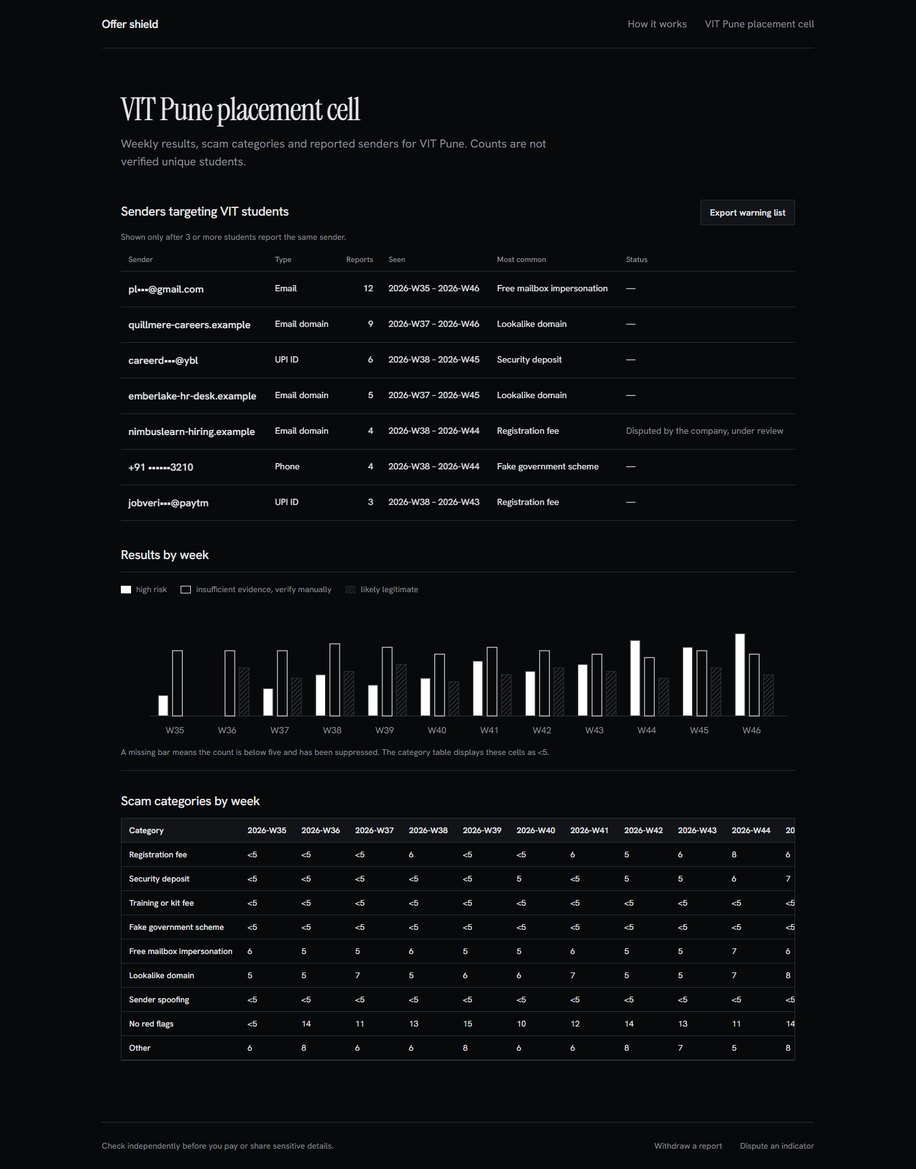
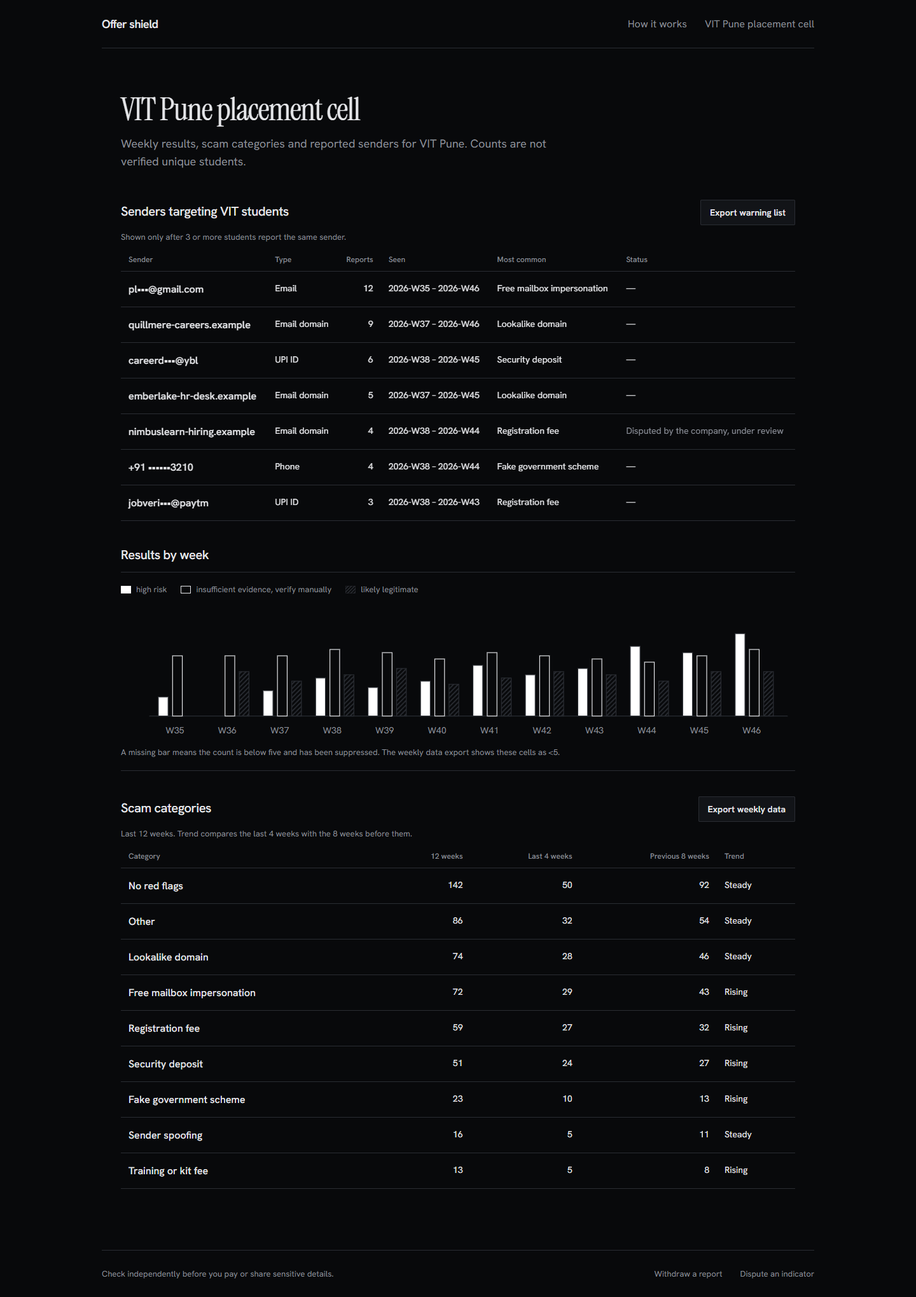
Category summary instead of the week x category grid; weekly CSV export
- dashboard category_summary: one row per category with 12-week total, last 4 weeks, previous
  8 weeks and Rising/Falling/Steady (weekly-rate rule, +/-25%), sorted by total; '<5' applied to
  each count; categories under 5 in total get no trend word and sort after the others
- GET /placement-cell/weekly.csv: full weekly data (week x band, week x category) with '<5';
  the API keeps by_week_category
- UI: 'Scam categories' table with 'Export weekly data'; chart help text points to the export
- tests (summary, suppression, trend rule, CSV, frontend); README, CLAIMS; screenshots recaptured

diff --git a/frontend/src/App.tsx b/frontend/src/App.tsx
@@ -1,5 +1,5 @@
 import { FormEvent, useEffect, useId, useMemo, useRef, useState } from 'react'
-import { analyze, loadDashboard, SENDERS_CSV_URL, submitDispute, submitReport, withdrawReport } from './api/client'
+import { analyze, loadDashboard, SENDERS_CSV_URL, submitDispute, submitReport, WEEKLY_CSV_URL, withdrawReport } from './api/client'
 import { CONSENT_TEXT, CONSENT_VERSION } from './consent'
 import type { AnalyzeResponse, CheckResult, InstitutionDashboard, ReportableIndicator, RiskBand, ScamCategory, TopSender } from './api/types'
 import styles from './App.module.css'
@@ -184,7 +184,7 @@ function TrendChart({ dashboard }: { dashboard: InstitutionDashboard }) {
   const numeric = dashboard.by_week_band.flatMap(row => typeof row.count === 'number' ? [row.count] : [])
   const max = Math.max(5, ...numeric)
   const bands: RiskBand[] = ['high risk', 'insufficient evidence, verify manually', 'likely legitimate']
-  return <div className={styles.chartPanel}><div className={styles.chartLegend}>{bands.map((band, i) => <span key={band}><i className={`${styles.legendMark} ${[styles.highMark, styles.manualMark, styles.legitMark][i]}`}>{i === 2 && <svg className={styles.legendHatch} viewBox="0 0 16 12" aria-hidden="true"><defs><pattern id="legendHatchPattern" width="5" height="5" patternUnits="userSpaceOnUse"><rect width="5" height="5" fill="var(--obsidian)"/><path d="M-1 1 L1 -1 M0 5 L5 0 M4 6 L6 4" stroke="var(--graphite)" strokeWidth="1.5"/></pattern></defs><rect width="16" height="12" fill="url(#legendHatchPattern)" stroke="var(--graphite)"/></svg>}</i>{band}</span>)}</div><div className={styles.chartScroll}><svg className={styles.chart} viewBox="0 0 900 190" role="img" aria-labelledby="chart-title chart-desc"><title id="chart-title">Results by week</title><desc id="chart-desc">Grouped weekly counts for high risk, insufficient evidence, and likely legitimate results. Missing bars indicate suppressed counts below five; the category table shows those cells as &lt;5.</desc><defs><pattern id="hatch" width="6" height="6" patternUnits="userSpaceOnUse"><path d="M-1 1 L1 -1 M0 6 L6 0 M5 7 L7 5" stroke="var(--graphite)" strokeWidth="1.5"/></pattern></defs><line x1="38" y1="150" x2="890" y2="150" stroke="var(--graphite)"/>{groups.map((rows, wi) => { const x = 50 + wi * 70; return <g key={dashboard.weeks[wi]}><text x={x + 22} y="173" textAnchor="middle" className={styles.axisText}>{dashboard.weeks[wi].slice(5)}</text>{rows.map(row => { const bi = bands.indexOf(row.band); const n = typeof row.count === 'number' ? row.count : 0; const h = n / max * 110; const bx = x + bi * 19; const fill = bi === 0 ? 'var(--white)' : bi === 1 ? 'var(--obsidian)' : 'url(#hatch)'; return <rect key={row.band} x={bx} y={150 - h} width="13" height={Math.max(n ? 1 : 0, h)} fill={fill} stroke={bi === 1 ? 'var(--platinum)' : 'var(--graphite)'}><title>{row.band}, {row.count === '<5' ? '<5 results, value suppressed' : `${row.count} results`}, {dashboard.weeks[wi]}</title></rect> })}</g> })}</svg></div><p className={styles.help}>A missing bar means the count is below five and has been suppressed. The category table displays these cells as &lt;5.</p></div>
+  return <div className={styles.chartPanel}><div className={styles.chartLegend}>{bands.map((band, i) => <span key={band}><i className={`${styles.legendMark} ${[styles.highMark, styles.manualMark, styles.legitMark][i]}`}>{i === 2 && <svg className={styles.legendHatch} viewBox="0 0 16 12" aria-hidden="true"><defs><pattern id="legendHatchPattern" width="5" height="5" patternUnits="userSpaceOnUse"><rect width="5" height="5" fill="var(--obsidian)"/><path d="M-1 1 L1 -1 M0 5 L5 0 M4 6 L6 4" stroke="var(--graphite)" strokeWidth="1.5"/></pattern></defs><rect width="16" height="12" fill="url(#legendHatchPattern)" stroke="var(--graphite)"/></svg>}</i>{band}</span>)}</div><div className={styles.chartScroll}><svg className={styles.chart} viewBox="0 0 900 190" role="img" aria-labelledby="chart-title chart-desc"><title id="chart-title">Results by week</title><desc id="chart-desc">Grouped weekly counts for high risk, insufficient evidence, and likely legitimate results. Missing bars indicate suppressed counts below five; the weekly data export shows those cells as &lt;5.</desc><defs><pattern id="hatch" width="6" height="6" patternUnits="userSpaceOnUse"><path d="M-1 1 L1 -1 M0 6 L6 0 M5 7 L7 5" stroke="var(--graphite)" strokeWidth="1.5"/></pattern></defs><line x1="38" y1="150" x2="890" y2="150" stroke="var(--graphite)"/>{groups.map((rows, wi) => { const x = 50 + wi * 70; return <g key={dashboard.weeks[wi]}><text x={x + 22} y="173" textAnchor="middle" className={styles.axisText}>{dashboard.weeks[wi].slice(5)}</text>{rows.map(row => { const bi = bands.indexOf(row.band); const n = typeof row.count === 'number' ? row.count : 0; const h = n / max * 110; const bx = x + bi * 19; const fill = bi === 0 ? 'var(--white)' : bi === 1 ? 'var(--obsidian)' : 'url(#hatch)'; return <rect key={row.band} x={bx} y={150 - h} width="13" height={Math.max(n ? 1 : 0, h)} fill={fill} stroke={bi === 1 ? 'var(--platinum)' : 'var(--graphite)'}><title>{row.band}, {row.count === '<5' ? '<5 results, value suppressed' : `${row.count} results`}, {dashboard.weeks[wi]}</title></rect> })}</g> })}</svg></div><p className={styles.help}>A missing bar means the count is below five and has been suppressed. The weekly data export shows these cells as &lt;5.</p></div>
 }
 
 const senderTypeLabels: Record<TopSender['indicator_type'], string> = {
@@ -202,6 +202,18 @@ function SendersTable({ dashboard }: { dashboard: InstitutionDashboard }) {
   </section>
 }
 
+function CategorySummary({ dashboard }: { dashboard: InstitutionDashboard }) {
+  const rows = dashboard.category_summary ?? []
+  const suppressedTitle = 'Counts under five are suppressed to protect privacy.'
+  const cell = (n: number | '<5') => <td className={styles.numeric} title={n === '<5' ? suppressedTitle : undefined}>{n}</td>
+  return <section className={styles.categorySection} aria-labelledby="categories-title">
+    <div className={styles.sendersHead}><h2 id="categories-title">Scam categories</h2><a className={styles.exportLink} href={WEEKLY_CSV_URL} download>Export weekly data</a></div>
+    <p className={styles.help}>Last 12 weeks. Trend compares the last 4 weeks with the 8 weeks before them.</p>
+    <div className={styles.ledgerWrap}><table className={styles.ledger} aria-label="Scam categories"><thead><tr><th scope="col">Category</th><th scope="col" className={styles.numeric}>12 weeks</th><th scope="col" className={styles.numeric}>Last 4 weeks</th><th scope="col" className={styles.numeric}>Previous 8 weeks</th><th scope="col">Trend</th></tr></thead>
+      <tbody>{rows.map(r => <tr key={r.category}><th scope="row">{categoryLabels[r.category] ?? r.category}</th>{cell(r.total)}{cell(r.last_4_weeks)}{cell(r.previous_8_weeks)}<td>{r.trend ?? '—'}</td></tr>)}</tbody></table></div>
+  </section>
+}
+
 function DashboardPage() {
   const [dashboard, setDashboard] = useState<InstitutionDashboard | null>(null); const [error, setError] = useState('')
   useEffect(() => {
@@ -210,7 +222,7 @@ function DashboardPage() {
       .catch(err => { if (active) setError(err instanceof Error ? err.message : 'The dashboard could not be loaded.') })
     return () => { active = false }
   }, [])
-  return <section className={styles.dashboardPage}><h1>VIT Pune placement cell</h1><p>Weekly results, scam categories and reported senders for VIT Pune. Counts are not verified unique students.</p>{!dashboard && !error && <p className={styles.help} role="status">Loading…</p>}{error && <p role="alert" className={styles.error}>{error}</p>}{dashboard && <div className={styles.dashboardResults}><SendersTable dashboard={dashboard}/><h2>Results by week</h2><TrendChart dashboard={dashboard}/><h2>Scam categories by week</h2><div className={styles.tableScroll} tabIndex={0} aria-label="Scrollable scam categories by week"><table className={styles.categoryTable} aria-label="Scam categories by week"><thead><tr><th scope="col">Category</th>{dashboard.weeks.map(w => <th scope="col" key={w}>{w}</th>)}</tr></thead><tbody>{Object.entries(categoryLabels).map(([category, label]) => <tr key={category}><th scope="row">{label}</th>{dashboard.weeks.map(week => { const count = dashboard.by_week_category.find(row => row.week === week && row.category === category)?.count ?? '<5'; return <td key={week} title={count === '<5' ? 'Counts under five are suppressed to protect privacy.' : `${count} analyses`}>{count}</td>})}</tr>)}</tbody></table></div></div>}</section>
+  return <section className={styles.dashboardPage}><h1>VIT Pune placement cell</h1><p>Weekly results, scam categories and reported senders for VIT Pune. Counts are not verified unique students.</p>{!dashboard && !error && <p className={styles.help} role="status">Loading…</p>}{error && <p role="alert" className={styles.error}>{error}</p>}{dashboard && <div className={styles.dashboardResults}><SendersTable dashboard={dashboard}/><h2>Results by week</h2><TrendChart dashboard={dashboard}/><CategorySummary dashboard={dashboard}/></div>}</section>
 }
 
 function HowPage() {

diff --git a/frontend/src/App.test.tsx b/frontend/src/App.test.tsx
@@ -155,6 +155,10 @@ describe('interface errors', () => {
 describe('VIT Pune placement cell page', () => {
   const dashboardData = {
     institution: 'VIT Pune', sender_threshold: 3, weeks: ['2026-W46'], by_week_band: [], by_week_category: [],
+    category_summary: [
+      { category: 'registration_fee', total: 61, last_4_weeks: 28, previous_8_weeks: 33, trend: 'Rising' },
+      { category: 'sender_spoofing', total: '<5', last_4_weeks: '<5', previous_8_weeks: '<5', trend: null },
+    ],
     top_senders: [
       { indicator: 'pl•••@gmail.com', indicator_type: 'email', reports: 12, first_week: '2026-W36', last_week: '2026-W46', most_common_category: 'free_mailbox_impersonation', dispute_status: null },
       { indicator: 'brightpath-hiring.example', indicator_type: 'domain', reports: 4, first_week: '2026-W40', last_week: '2026-W44', most_common_category: 'registration_fee', dispute_status: 'disputed by the company, under review' },
@@ -176,6 +180,21 @@ describe('VIT Pune placement cell page', () => {
     expect(within(table).getByText('Disputed by the company, under review')).toBeInTheDocument()
     expect(screen.getByRole('link', { name: 'Export warning list' })).toHaveAttribute('href', expect.stringContaining('/placement-cell/senders.csv'))
     expect(vi.mocked(api.loadDashboard)).toHaveBeenCalledWith()
+  })
+  it('shows one row per category with totals and a trend word instead of a week grid', async () => {
+    vi.mocked(api.loadDashboard).mockResolvedValueOnce(structuredClone(dashboardData) as never)
+    window.history.replaceState({}, '', '/dashboard')
+    render(<App />)
+    const table = await screen.findByRole('table', { name: 'Scam categories' })
+    const headers = within(table).getAllByRole('columnheader').map(h => h.textContent)
+    expect(headers).toEqual(['Category', '12 weeks', 'Last 4 weeks', 'Previous 8 weeks', 'Trend'])
+    const [, reg, spoof] = within(table).getAllByRole('row')
+    expect(within(reg).getByRole('rowheader')).toHaveTextContent('Registration fee')
+    expect(reg).toHaveTextContent('61'); expect(reg).toHaveTextContent('Rising')
+    expect(within(spoof).getAllByText('<5')).toHaveLength(3)
+    expect(within(spoof).getByText('—')).toBeInTheDocument()
+    expect(screen.queryByRole('table', { name: 'Scam categories by week' })).not.toBeInTheDocument()
+    expect(screen.getByRole('link', { name: 'Export weekly data' })).toHaveAttribute('href', expect.stringContaining('/placement-cell/weekly.csv'))
   })
   it('names the page in the navigation and has no college-code field', () => {
     render(<App />)

diff --git a/frontend/src/App.module.css b/frontend/src/App.module.css
@@ -121,12 +121,11 @@ input[type='checkbox'] { width: 18px; height: 18px; accent-color: var(--platinum
 .chartScroll { overflow-x: auto; }
 .chart { display: block; width: 100%; min-width: 740px; height: auto; }
 .axisText { fill: var(--steel); font: 12px var(--font-body); }
-.tableScroll { overflow: auto; max-height: 560px; border: 1px solid var(--graphite); }
-.categoryTable { width: 100%; border-collapse: collapse; white-space: nowrap; font-size: 13px; }
-.categoryTable th, .categoryTable td { padding: 10px 12px; border-bottom: 1px solid var(--graphite); text-align: left; }
-.categoryTable thead { position: sticky; top: 0; background: var(--basalt); }
-.categoryTable tbody th { font-weight: 500; }
-.categoryTable td { font-variant-numeric: tabular-nums; }
+.categorySection { margin-top: 40px; }
+.categorySection > .help { margin: 4px 0 18px; }
+.categorySection .ledger tbody th { width: auto; }
+.categorySection .ledger td { font-size: 14px; }
+.ledger th.numeric, .ledger td.numeric { text-align: right; }
 .howPage { max-width: 800px; }
 .howPage > h1 { margin-bottom: 18px; }
 .howPage .lede { margin-bottom: 44px; }

diff --git a/frontend/playwright/demo.spec.ts b/frontend/playwright/demo.spec.ts
@@ -87,7 +87,7 @@ test('demo analysis, reporting, dashboard, and public screens', async ({ page },
   await expect(senders.getByText('Disputed by the company, under review')).toBeVisible()
   await expect(senders.getByText(/talentbridge-jobs\.example/)).toHaveCount(0)   // only 2 reports: never shown
   await expect(page.getByRole('heading', { name: 'Results by week' })).toBeVisible()
-  await expect(page.getByRole('table', { name: 'Scam categories by week' })).toBeVisible()
+  await expect(page.getByRole('table', { name: 'Scam categories', exact: true })).toBeVisible()
   // Full page, so the senders table, the 12-week chart and the category table are all in the image.
   await capture(page, testInfo, 'dashboard', true)
   const downloadPromise = page.waitForEvent('download')

diff --git a/frontend/src/api/types.ts b/frontend/src/api/types.ts
@@ -89,8 +89,17 @@ export interface TopSender {
   most_common_category: ScamCategory
   dispute_status: string | null
 }
+export interface CategorySummaryRow {
+  category: ScamCategory
+  total: DashboardCount
+  last_4_weeks: DashboardCount
+  previous_8_weeks: DashboardCount
+  /** null when the 12-week total is below five (no trend shown for suppressed counts). */
+  trend: 'Rising' | 'Falling' | 'Steady' | null
+}
 export interface InstitutionDashboard {
   institution: string
+  category_summary: CategorySummaryRow[]
   sender_threshold: number
   top_senders: TopSender[]
   weeks: string[]

diff --git a/frontend/src/api/client.ts b/frontend/src/api/client.ts
@@ -65,3 +65,4 @@ export function loadDashboard() {
   return request<InstitutionDashboard>('/placement-cell/dashboard')
 }
 export const SENDERS_CSV_URL = `${API_BASE}/placement-cell/senders.csv`
+export const WEEKLY_CSV_URL = `${API_BASE}/placement-cell/weekly.csv`

diff --git a/app/services/institution_dashboard.py b/app/services/institution_dashboard.py
@@ -191,10 +191,49 @@ def senders_csv(db: Session) -> str:
     return out.getvalue()
 
 
-def dashboard(db: Session, today: date | None = None) -> dict:
-    institution = get_institution(db)
-    db.commit()
-    weeks = last_weeks(today)
+SUPPRESSION_THRESHOLD = 5
+TREND_RATIO = 1.25  # weekly rate change needed to call a trend Rising or Falling
+
+
+def _shown(n: int):
+    return n if n >= SUPPRESSION_THRESHOLD else "<5"
+
+
+def trend_word(last_4: int, previous_8: int) -> str:
+    """Compare weekly rates: last 4 weeks vs the 8 weeks before them."""
+    recent, earlier = last_4 / 4, previous_8 / 8
+    if earlier == 0:
+        return "Rising" if recent > 0 else "Steady"
+    if recent >= earlier * TREND_RATIO:
+        return "Rising"
+    if recent <= earlier / TREND_RATIO:
+        return "Falling"
+    return "Steady"
+
+
+def category_summary(weeks: list[str], category_counts: dict) -> list[dict]:
+    """One row per category: 12-week total, last 4 weeks, previous 8 weeks and a trend word.
+
+    Every count below five is shown as "<5". A category whose 12-week total is below
+    five gets no trend word (None) and sorts after the visible ones, alphabetically,
+    so neither reveals the suppressed numbers.
+    """
+    rows = []
+    for category in CATEGORIES:
+        per_week = [category_counts.get((week, category), 0) for week in weeks]
+        last_4, previous_8 = sum(per_week[-4:]), sum(per_week[:-4])
+        total = last_4 + previous_8
+        rows.append({"category": category, "total": _shown(total), "last_4_weeks": _shown(last_4),
+                     "previous_8_weeks": _shown(previous_8),
+                     "trend": trend_word(last_4, previous_8) if total >= SUPPRESSION_THRESHOLD else None,
+                     "_sort": total if total >= SUPPRESSION_THRESHOLD else -1})
+    rows.sort(key=lambda r: (-r["_sort"], r["category"]))
+    for r in rows:
+        del r["_sort"]
+    return rows
+
+
+def _weekly_counts(db: Session, institution: Institution, weeks: list[str]):
     base = [InstitutionObservation.institution_id == institution.id,
             InstitutionObservation.iso_week.in_(weeks)]
     if not _include_demo():
@@ -207,17 +246,46 @@ def dashboard(db: Session, today: date | None = None) -> dict:
         func.count(InstitutionObservation.id)).filter(*base).group_by(
             InstitutionObservation.iso_week, InstitutionObservation.scam_category).all()
     category_counts = {(week, category): count for week, category, count in category_rows}
+    return band_counts, category_counts
+
+
+def dashboard(db: Session, today: date | None = None) -> dict:
+    institution = get_institution(db)
+    db.commit()
+    weeks = last_weeks(today)
+    band_counts, category_counts = _weekly_counts(db, institution, weeks)
     return {
         "institution": institution.name,
         "sender_threshold": SENDER_THRESHOLD,
         "top_senders": top_senders(db),
         "weeks": weeks,
-        "by_week_band": [{"week": week, "band": band,
-                          "count": (n if n >= 5 else "<5")}
-                         for week in weeks for band in BANDS
-                         for n in [band_counts.get((week, band), 0)]],
+        "by_week_band": [{"week": week, "band": band, "count": _shown(band_counts.get((week, band), 0))}
+                         for week in weeks for band in BANDS],
+        # Full weekly category data stays in the API and in GET /placement-cell/weekly.csv.
         "by_week_category": [{"week": week, "category": category,
-                              "count": (n if n >= 5 else "<5")}
-                             for week in weeks for category in CATEGORIES
-                             for n in [category_counts.get((week, category), 0)]],
+                              "count": _shown(category_counts.get((week, category), 0))}
+                             for week in weeks for category in CATEGORIES],
+        "category_summary": category_summary(weeks, category_counts),
     }
+
+
+WEEKLY_CSV_COLUMNS = ("week", "breakdown", "value", "count")
+
+
+def weekly_csv(db: Session, today: date | None = None) -> str:
+    """Full 12-week data: one row per week x band and week x category, with '<5' applied."""
+    import csv
+    import io
+    institution = get_institution(db)
+    db.commit()
+    weeks = last_weeks(today)
+    band_counts, category_counts = _weekly_counts(db, institution, weeks)
+    out = io.StringIO()
+    writer = csv.writer(out, lineterminator="\r\n")
+    writer.writerow(WEEKLY_CSV_COLUMNS)
+    for week in weeks:
+        for band in BANDS:
+            writer.writerow([week, "band", band, _shown(band_counts.get((week, band), 0))])
+        for category in CATEGORIES:
+            writer.writerow([week, "category", category, _shown(category_counts.get((week, category), 0))])
+    return out.getvalue()

diff --git a/tests/test_category_summary.py b/tests/test_category_summary.py
@@ -1,0 +1,64 @@
+"""Category summary (one row per category) and the weekly CSV export."""
+import csv
+import io
+
+from app.services import institution_dashboard as dash
+
+WEEKS = [f"2026-W{n:02d}" for n in range(35, 47)]
+
+
+def _counts(per_category: dict[str, list[int]]) -> dict:
+    return {(week, cat): n for cat, values in per_category.items() for week, n in zip(WEEKS, values)}
+
+
+def _row(rows, category):
+    return next(r for r in rows if r["category"] == category)
+
+
+def test_one_row_per_category_with_totals_and_trend():
+    rows = dash.category_summary(WEEKS, _counts({
+        "registration_fee":  [1, 1, 1, 1, 1, 1, 1, 1, 4, 5, 5, 6],   # 8 earlier, 20 recent: Rising
+        "no_red_flags":      [6, 6, 6, 6, 6, 6, 6, 6, 2, 2, 2, 2],   # 48 earlier, 8 recent (56): Falling
+        "other":             [5, 5, 5, 5, 5, 5, 5, 5, 5, 5, 5, 5],   # flat: Steady
+        "sender_spoofing":   [0, 0, 1, 0, 0, 1, 0, 0, 0, 1, 0, 0],   # total 3: suppressed, no trend
+    }))
+    assert [r["category"] for r in rows][:3] == ["other", "no_red_flags", "registration_fee"]   # 60, 56, 28
+    assert {r["category"] for r in rows} == set(dash.CATEGORIES)
+    reg = _row(rows, "registration_fee")
+    assert (reg["total"], reg["last_4_weeks"], reg["previous_8_weeks"], reg["trend"]) == (28, 20, 8, "Rising")
+    assert _row(rows, "no_red_flags")["trend"] == "Falling"
+    assert _row(rows, "other")["trend"] == "Steady"
+    spoof = _row(rows, "sender_spoofing")
+    assert (spoof["total"], spoof["last_4_weeks"], spoof["previous_8_weeks"], spoof["trend"]) == ("<5", "<5", "<5", None)
+    # Suppressed categories sort after the visible ones, alphabetically (no hidden ordering).
+    hidden = [r["category"] for r in rows if r["total"] == "<5"]
+    assert hidden == sorted(hidden) and rows[-len(hidden):] == [r for r in rows if r["total"] == "<5"]
+
+
+def test_each_count_is_suppressed_independently():
+    rows = dash.category_summary(WEEKS, _counts({"lookalike_domain": [1, 1, 1, 1, 1, 1, 1, 1, 0, 1, 0, 1]}))
+    row = _row(rows, "lookalike_domain")
+    assert (row["total"], row["last_4_weeks"], row["previous_8_weeks"]) == (10, "<5", 8)
+
+
+def test_trend_word_rule():
+    assert dash.trend_word(10, 20) == "Steady"      # 2.5/week vs 2.5/week
+    assert dash.trend_word(13, 20) == "Rising"      # +30%
+    assert dash.trend_word(7, 20) == "Falling"      # -30%
+    assert dash.trend_word(5, 0) == "Rising"
+    assert dash.trend_word(0, 0) == "Steady"
+
+
+def test_dashboard_api_has_summary_and_weekly_csv(api_client):
+    body = api_client.get("/placement-cell/dashboard").json()
+    assert len(body["category_summary"]) == len(dash.CATEGORIES)
+    assert len(body["by_week_category"]) == 12 * len(dash.CATEGORIES)      # full weekly data kept in the API
+    response = api_client.get("/placement-cell/weekly.csv")
+    assert response.status_code == 200
+    assert response.headers["content-type"].startswith("text/csv")
+    assert 'filename="vit-pune-weekly-data.csv"' in response.headers["content-disposition"]
+    rows = list(csv.reader(io.StringIO(response.text)))
+    assert rows[0] == list(dash.WEEKLY_CSV_COLUMNS)
+    assert len(rows) - 1 == 12 * (len(dash.BANDS) + len(dash.CATEGORIES))
+    assert {r[1] for r in rows[1:]} == {"band", "category"}
+    assert all(r[3] == "<5" or int(r[3]) >= 5 for r in rows[1:])            # '<5' rule applied

diff --git a/app/api/routes/institutions.py b/app/api/routes/institutions.py
@@ -9,7 +9,7 @@ from sqlalchemy.orm import Session
 
 from app.api.limiter import limiter
 from app.db.database import get_db
-from app.services.institution_dashboard import dashboard, senders_csv
+from app.services.institution_dashboard import dashboard, senders_csv, weekly_csv
 
 router = APIRouter(prefix="/placement-cell", tags=["placement-cell"])
 
@@ -26,4 +26,13 @@ def placement_cell_senders_csv(request: Request, db: Session = Depends(get_db)):
     """Warning list export: masked senders with 3+ reports only (same fields as the page)."""
     return Response(content=senders_csv(db), media_type="text/csv; charset=utf-8",
                     headers={"Content-Disposition": 'attachment; filename="vit-pune-warning-list.csv"',
+                             "Cache-Control": "no-store"})
+
+
+@router.get("/weekly.csv")
+@limiter.limit("30/minute")
+def placement_cell_weekly_csv(request: Request, db: Session = Depends(get_db)):
+    """Full 12-week data (week x band and week x category), counts below five shown as '<5'."""
+    return Response(content=weekly_csv(db), media_type="text/csv; charset=utf-8",
+                    headers={"Content-Disposition": 'attachment; filename="vit-pune-weekly-data.csv"',
                              "Cache-Control": "no-store"})

diff --git a/README.md b/README.md
@@ -121,8 +121,14 @@ the page is open and shows only aggregate data.
 Invoke-RestMethod -Uri http://localhost:8000/placement-cell/dashboard
 ```
 
-The response contains week-by-band and week-by-category counts for 12 weeks;
-any cell below five is returned as `"<5"`. It also contains `top_senders`:
+The response contains week-by-band and week-by-category counts for 12 weeks
+and a `category_summary` with one row per category: 12-week total, last 4
+weeks, previous 8 weeks and a trend word (`Rising`/`Falling`/`Steady`,
+comparing the weekly rate of the last 4 weeks with the 8 before them; ±25%),
+sorted by total. Every count below five is returned as `"<5"`; a category whose
+12-week total is below five gets no trend word and sorts after the others.
+`GET /placement-cell/weekly.csv` exports the full weekly data (week × band and
+week × category) with the same `<5` rule. It also contains `top_senders`:
 masked indicators (type, report count, first and last week, most common
 category, dispute status) reported in **3 or more** consented reports, sorted by
 count; senders with fewer reports never appear. `GET /placement-cell/senders.csv`

diff --git a/CLAIMS.md b/CLAIMS.md
@@ -145,7 +145,11 @@ been verified in this workspace.
   category summary are populated; checks made in demo mode are also demo-flagged.
   Demo rows count only in demo mode. Two chart cells are deliberately below five.
 - `GET /placement-cell/dashboard` returns week-by-band and week-by-category
-  counts for 12 ISO weeks and replaces cells below five with `"<5"`, plus
+  counts for 12 ISO weeks and replaces cells below five with `"<5"`, a
+  `category_summary` (per category: 12-week total, last 4 weeks, previous 8
+  weeks, trend word by a ±25% weekly-rate rule; `<5` applied to each count; no
+  trend word when the total is below five), `GET /placement-cell/weekly.csv`
+  with the full weekly data under the same rule, plus
   `top_senders`: masked indicators reported in 3+ consented (consent v3)
   reports, with type, count, first/last week, most common category and dispute
   status. `GET /placement-cell/senders.csv` exports that list. Only masked
